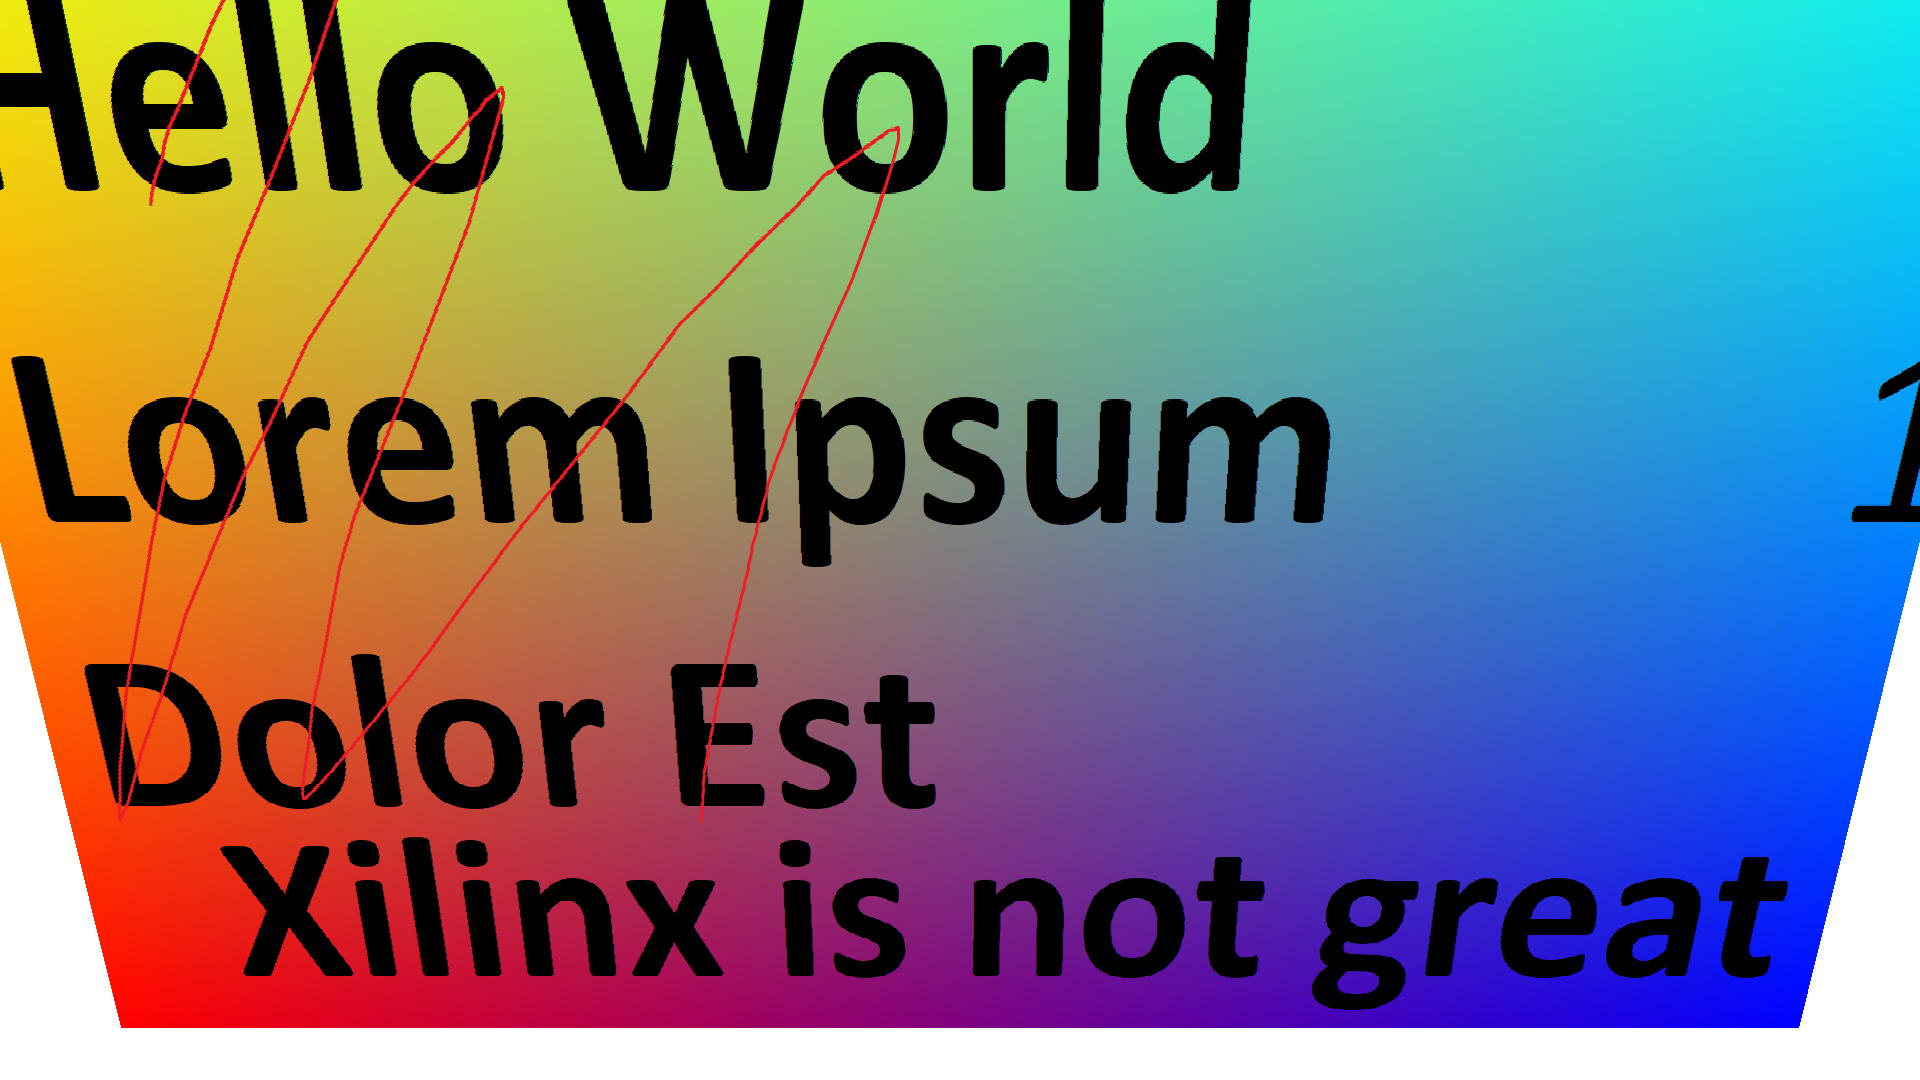
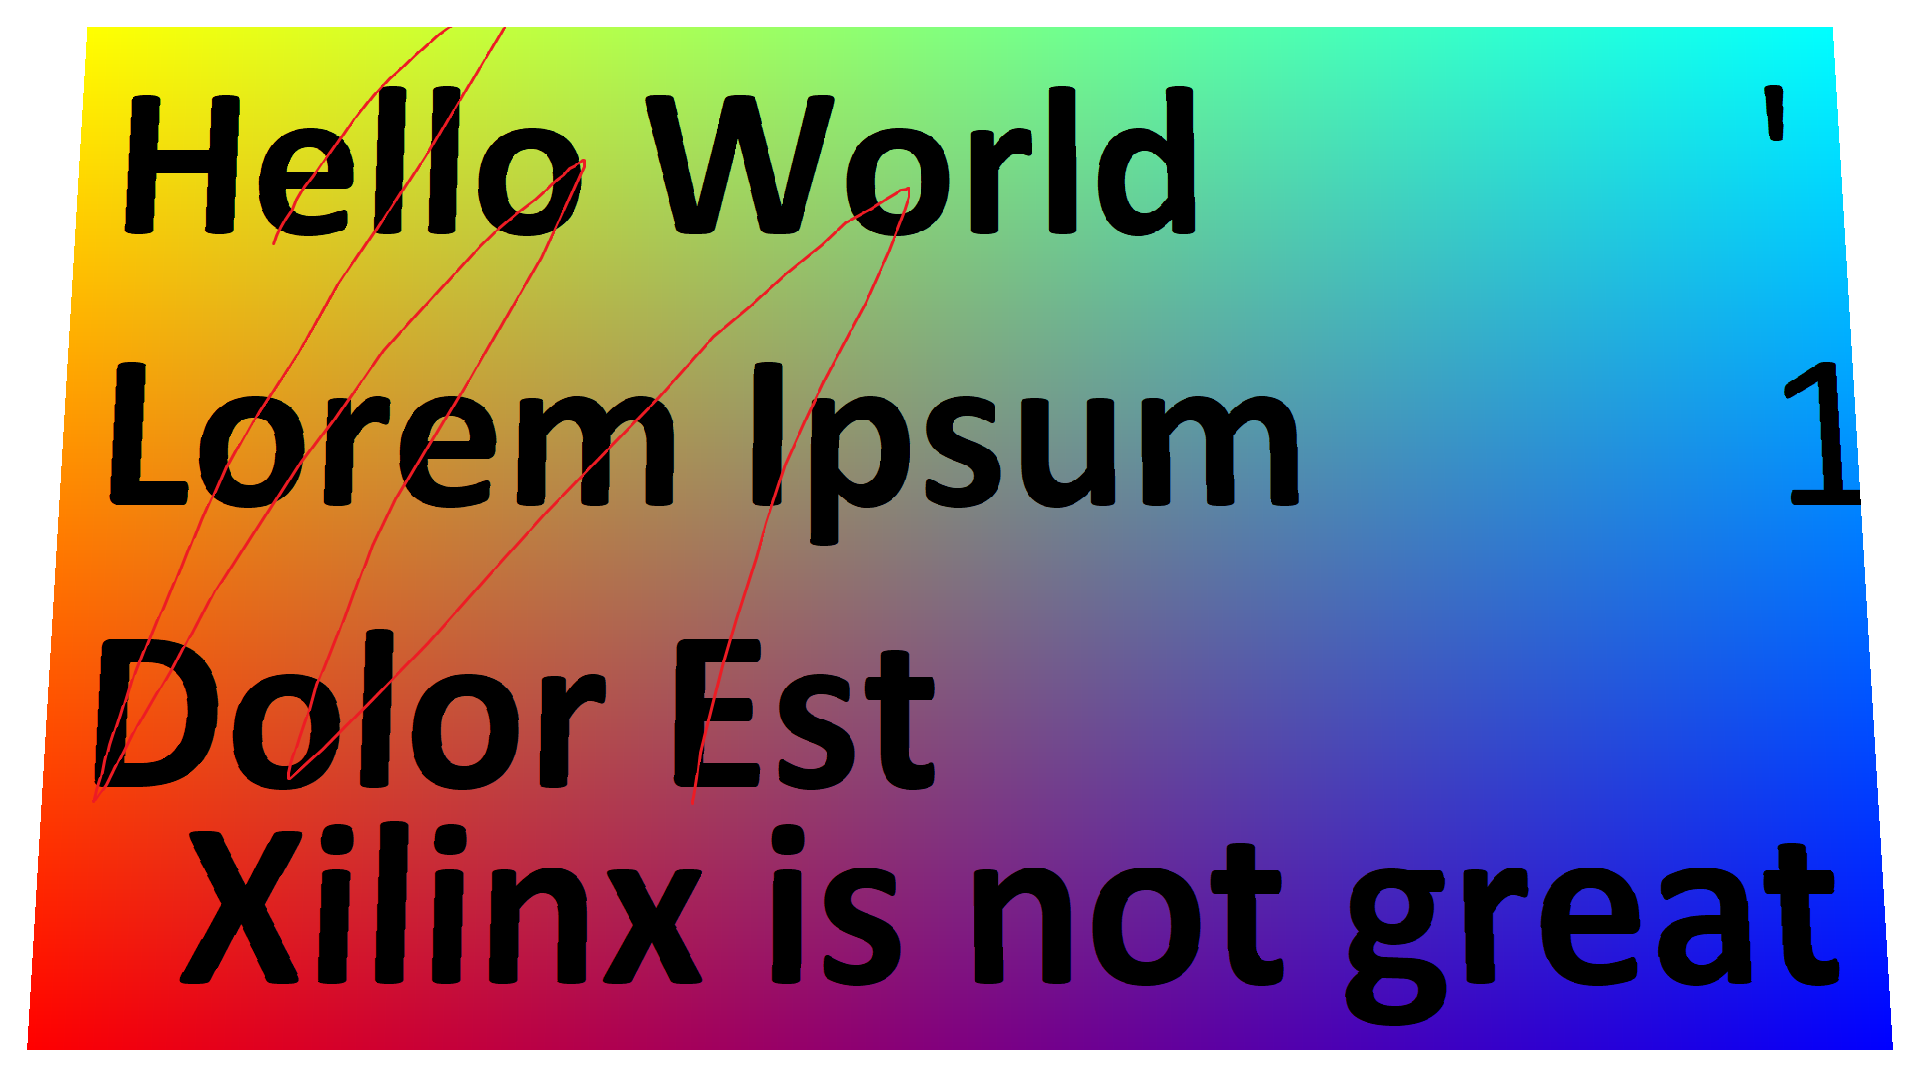
files for final run

Changed region(s): [[0.0, 0.0, 1.0, 0.9778]]

diff --git a/homography_no_io.py b/homography_no_io.py
@@ -1,0 +1,232 @@
+from math import cos, pi, sin, tan
+
+from optparse import OptionParser
+import numpy as np
+import PIL as pil
+from PIL import Image
+import os.path
+
+""" Compute the Direct Linear Transform (DLT) and obtain the homography matrix
+from the following steps:
+    1. For each correspondence xi <-> xi', compute the first two rows of Ai
+    2. Assemble n 2x9 matrices Ai into a single 2nx9 matrix A
+    3. Obtain the singular value decomposition of A
+    4. Solution for h is the eigenvector corresponding to the smallest
+       eigenvalue of A.T A
+    5. Determine H from h
+    NOTE: According to one presentation I found, the algorithm implemented below
+    might not be using the correct matrix for DLT... need to check this more """
+def get_homography(proj_coors, screen_coors):
+    if len(proj_coors) != 4 or not all(len(e) == 2 for e in proj_coors):
+        raise ValueError("Arg `proj_coors` should be contain (x,y) for 4 " \
+                         "coordinates in the projector space")
+
+    if len(screen_coors) != 4 or not all(len(e) == 2 for e in screen_coors):
+        raise ValueError("Arg `screen_coors` should be contain (X,Y) for 4 " \
+                         "coordinates in the screen space")
+
+    (x1, y1), (x2, y2), (x3, y3), (x4, y4) = proj_coors
+    (X1, Y1), (X2, Y2), (X3, Y3), (X4, Y4) = screen_coors
+
+    A = np.empty((2 * 4, 9), dtype=np.float64)
+
+    A[0, :] = X1, Y1, 1, 0, 0, 0, -X1 * x1, -Y1 * x1, -x1
+    A[1, :] = 0, 0, 0, X1, Y1, 1, -X1 * y1, -Y1 * y1, -y1
+    A[2, :] = X2, Y2, 1, 0, 0, 0, -X2 * x2, -Y2 * x2, -x2
+    A[3, :] = 0, 0, 0, X2, Y2, 1, -X2 * y2, -Y2 * y2, -y2
+    A[4, :] = X3, Y3, 1, 0, 0, 0, -X3 * x3, -Y3 * x3, -x3
+    A[5, :] = 0, 0, 0, X3, Y3, 1, -X3 * y3, -Y3 * y3, -y3
+    A[6, :] = X4, Y4, 1, 0, 0, 0, -X4 * x4, -Y4 * x4, -x4
+    A[7, :] = 0, 0, 0, X4, Y4, 1, -X4 * y4, -Y4 * y4, -y4
+
+    AtA = np.dot(A.T, A)
+
+    eigenvals, eigenvecs = np.linalg.eigh(AtA)
+
+    for i in range(len(eigenvals)):
+        print("Eigenvalue: {} Eigenvector: {}".format(eigenvals[i],
+                                                      eigenvecs[:, i]))
+
+    smallest_idx = np.argmin(eigenvals)
+    small_val = eigenvals[smallest_idx]
+    small_vec = eigenvecs[:, smallest_idx]
+
+    H = small_vec.reshape((3, 3))
+
+    print("Homography matrix:\n{}".format(H))
+
+    return H
+
+""" Transform a pair (xp, yp) of undistorted coordinates into the corresponding
+pair (xk, yk) in the plane of the tilted screen. """
+def vertical_tilt(xp, yp, depth, alpha_v):
+    # Calculate the distorted coordinates in 3d-space, not accounting for the
+    # varying depth of the screen with respect to the lens
+    xk = xp / (1 - (yp / depth) * tan(alpha_v))
+    yk = yp / (1 - (yp / depth) * tan(alpha_v))
+    zk = yp * tan(alpha_v) / (1 - (yp / depth) * tan(alpha_v))
+
+    # Perform the same calculation as before, but now transform the coordinates
+    # from the original system into the coordinate system of hte tilted screen
+    # by applying a rotation matrix
+    #
+    # Rv = [[1, 0,          0],
+    #       [0, cos(alpha_v), -sin(alpha_v)],
+    #       [0, sin(alpha_v), cos(alpha_v)]]
+    xk_prime = xp * cos(alpha_v) / (cos(alpha_v) - (yp / depth) * sin(alpha_v))
+    yk_prime = yp / (cos(alpha_v) - (yp / depth) * sin(alpha_v))
+    zk_prime = 0 # Necessary condition, as the screen is a plane
+
+    return (xk, yk, zk), (xk_prime, yk_prime, zk_prime)
+
+""" Transform a pair (xp, yp) of undistorted coordinates into the corresponding
+pair (xk, yk) in the plane of the tilted screen. """
+def both_tilt(xp, yp, depth, alpha_h, alpha_v):
+    # Calculate the distorted coordinates in 3d-space, not accounting for the
+    # varying depth of the screen with respect to the lens
+    xk_numer = xp
+    xk_denom = 1 - \
+               (xp / depth) * tan(alpha_h) - \
+               (yp / depth) * tan(alpha_v) / cos(alpha_h)
+    xk = xk_numer / xk_denom
+
+    yk_numer = yp
+    yk_denom = 1 - \
+               (xp / depth) * tan(alpha_h) - \
+               (yp / depth) * tan(alpha_v) / cos(alpha_h)
+    yk = yk_numer / yk_denom
+
+    zk_numer = depth
+    zk_denom = 1 - \
+               (xp / depth) * tan(alpha_h) - \
+               (yp / depth) * tan(alpha_v) / cos(alpha_h)
+    zk = -depth + zk_numer / zk_denom
+
+    # Perform the same calculation as before, but now transform the coordinates
+    # from the original system into the coordinate system of hte tilted screen
+    # by applying a rotation matrix
+    #
+    # Rv = [[1, 0,          0],
+    #       [0, cos(alpha_v), -sin(alpha_v)],
+    #       [0, sin(alpha_v), cos(alpha_v)]]
+    #
+    # Rh = [[cos(alpha_h), 0, -sin(alpha_h)],
+    #       [0,            1, 0],
+    #       [sin(alpha_h), 0, cos(alpha_h)]]
+    xk_prime_numer = xp * cos(alpha_v) + \
+                     yp * sin(alpha_v) * sin(alpha_h)
+    xk_prime_denom = cos(alpha_v) * cos(alpha_h) - \
+                     (xp / depth) * cos(alpha_v) * sin(alpha_h) - \
+                     (yp / depth) * sin(alpha_v)
+    xk_prime = xk_prime_numer / xk_prime_denom
+
+    yk_prime_numer = yp * cos(alpha_h)
+    yk_prime_denom = cos(alpha_v) * cos(alpha_h) - \
+                     (xp / depth) * cos(alpha_v) * sin(alpha_h) - \
+                     (yp / depth) * sin(alpha_v)
+    yk_prime = yk_prime_numer / yk_prime_denom
+    zk_prime = 0 # Necessary condition, as the screen is a plane
+
+    return (xk, yk, zk), (xk_prime, yk_prime, zk_prime)
+
+def apply_transformation(H, fname, width, height):
+    fin_path = os.path.join("images", fname)
+    fout_path = os.path.join("images",
+                             "trans_{}.png".format(os.path.splitext(fname)[0]))
+
+    # Setup source image
+    src_img = Image.open(fin_path).convert("RGB").resize((width, height))
+    if src_img.size != (width, height):
+        print("Input image {} had unexpected dimensions " \
+              "{}".format(fname, src_img.size))
+
+    src_pixels = src_img.load() # Fast pixel access object [x, y]
+
+    # Setup dest image
+    dest_img = Image.new("RGB", (width, height))
+    dest_pixels = dest_img.load() # Fast pixel access object [x, y]
+
+    # Extend the dimension *2 in each dimension
+    for y in range(0, height):
+        for x in range(0, width):
+            # Homogeneous screen coordinate
+            screen_coord = np.array([[x], [y], [1.]])
+
+            screen_coord[0] -=  width/2
+            screen_coord[1] -= height/2
+
+            # Map the homogeneous coordinate to the corresponding
+            # non-homogeneous coordinate in the input plane
+            mapped_coord = np.matmul(H,screen_coord)
+
+            w = mapped_coord[2, 0] # Inhomogeneity
+            mapped_coord = mapped_coord / w # Convert to homogeneous
+
+            xp = int(round(mapped_coord[0, 0]))
+            yp = int(round(mapped_coord[1, 0]))
+
+            xp +=  width/2.
+            yp += height/2. + 20
+
+            if 0 <= xp < width and 0 <= yp < height:
+                dest_pixels[x, y] = src_pixels[xp, yp]
+            else:
+                dest_pixels[x, y] = (255, 255, 255) # Black
+
+    dest_img.save(fout_path)
+    print("Saved transformed image to {}".format(fout_path))
+
+def main():
+    parser = OptionParser()
+    parser.add_option("-f", "--file", dest="fname", help="Input image name",
+                      default="grad.png")
+    parser.add_option("--width", dest="width", help="Input image width",
+                      default=1920)
+    parser.add_option("--height", dest="height", help="Input image height",
+                      default=1080)
+    parser.add_option("-d", "--depth", dest="depth",
+                      help="Project depth (imaginary units)", default=1000)
+    parser.add_option("--vtilt", dest="alpha_v", help="Vertical tilt",
+                      type=float, default=pi/24.)
+    parser.add_option("--htilt", dest="alpha_h", help="Horizontal tilt",
+                      type=float, default=0.)
+
+    options, args = parser.parse_args()
+
+    width = options.width
+    height = options.height
+    depth = options.depth
+    alpha_v = options.alpha_v
+    alpha_h = options.alpha_h
+    
+    a = 2
+
+    # Corners of our imaginary image in pixel coordinates relative to the center
+    proj_coors = [
+            (-width/a - 1., -width/a - 1.), (width/a, -width/a - 1.),
+            (-width/a - 1, width/a), (width/a, width/a),
+            ]
+
+    screen_coors = []
+    # For each coordinate in `proj_coors`, determine its mapping to the screen
+    # using one of the appropriate functions
+    for xp, yp in proj_coors:
+        xyz, (xk_prime, yk_prime, _) = both_tilt(xp, yp, depth,
+                                                 alpha_h, alpha_v)
+        print("Calculated mapping ({}, {})->({}, {})".format(xp, yp, xk_prime,
+                                                             yk_prime))
+
+        screen_coors.append((xk_prime, yk_prime))
+
+    H = get_homography(proj_coors, screen_coors)
+    H_inv = np.linalg.inv(H) # Reverse the mapping for debugging purposes
+
+    print H*16777215
+
+    apply_transformation(H, "new_grad_hdmi.png", width, height)
+
+if __name__ == "__main__":
+    # Make printing more reasonable
+    np.set_printoptions(precision=20, threshold=25, suppress=True)
+
+    main()
